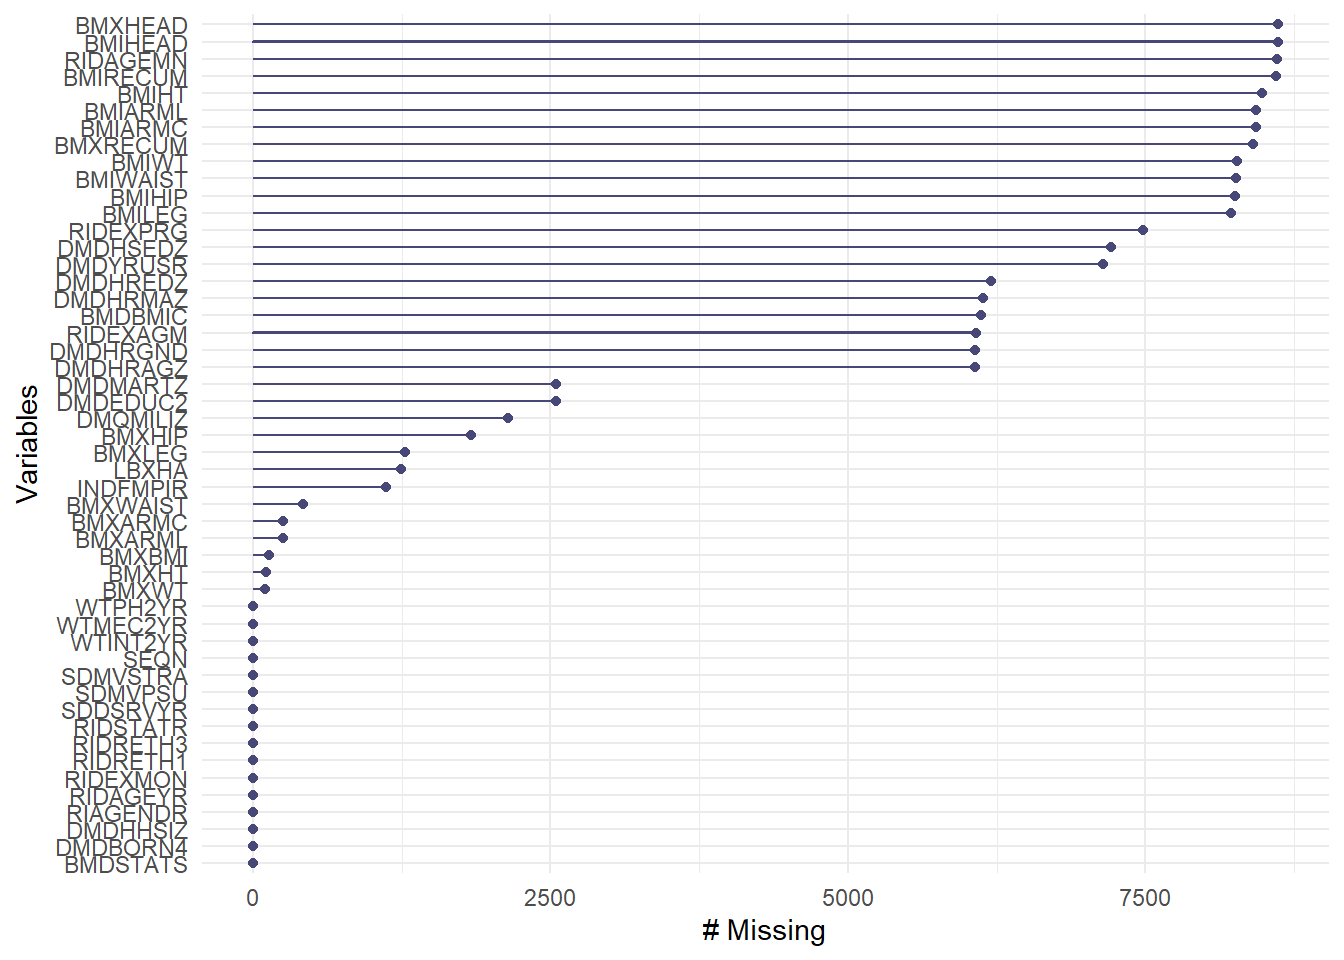
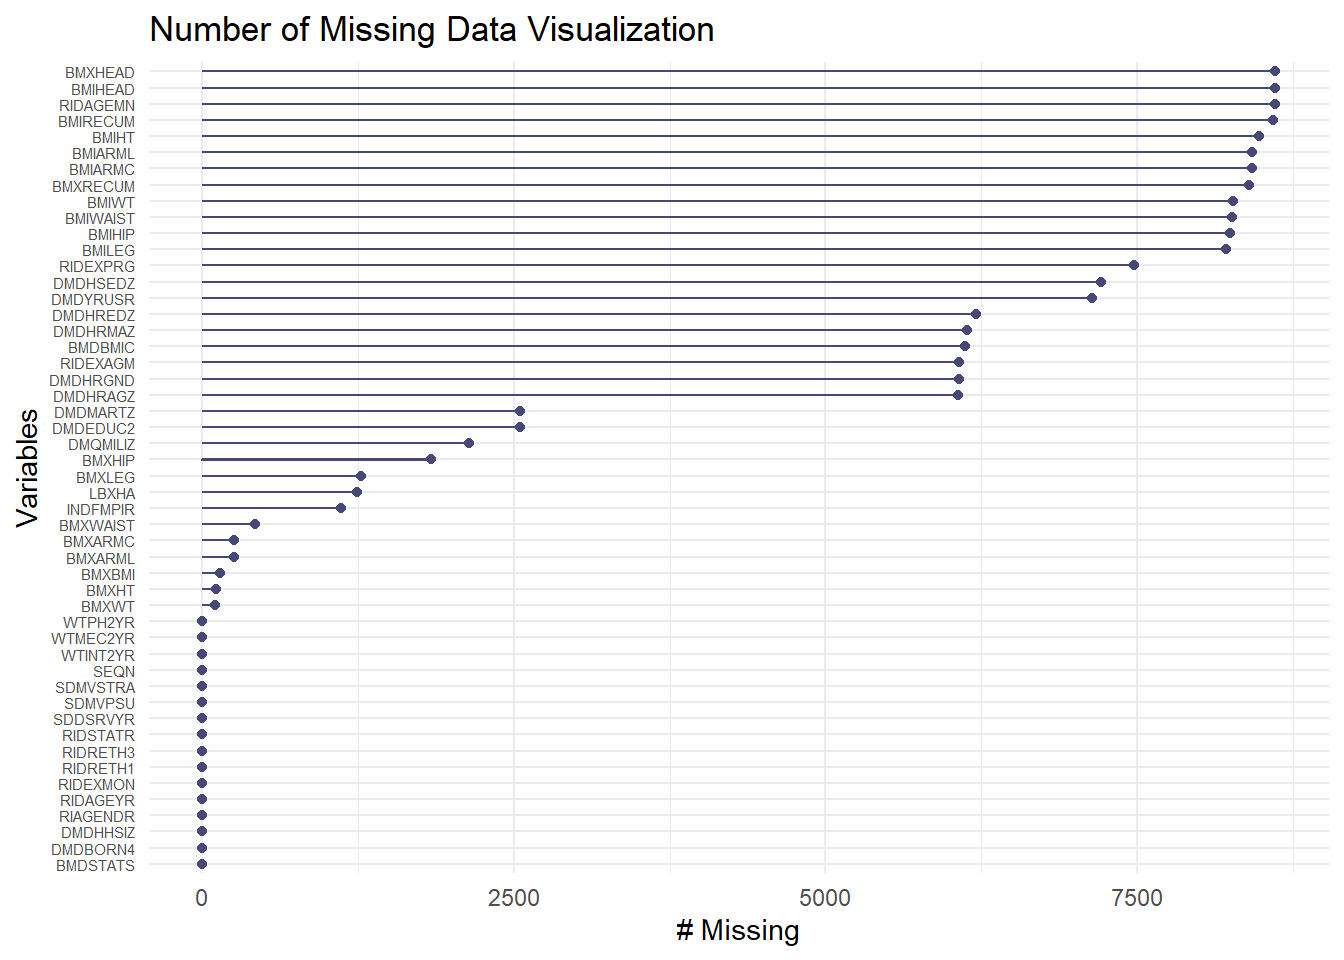
Edited missing value part of data file

diff --git a/docs/data.html b/docs/data.html
@@ -243,6 +243,7 @@ pre > code.sourceCode > span > a:first-child::before { text-decoration: underlin
 </section>
 <section id="missing-value-analysis" class="level2" data-number="2.2">
 <h2 data-number="2.2" class="anchored" data-anchor-id="missing-value-analysis"><span class="header-section-number">2.2</span> Missing value analysis</h2>
+<p>We first import the xpt data files</p>
 <div class="cell">
 <details class="code-fold">
 <summary>Code</summary>
@@ -267,32 +268,16 @@ pre > code.sourceCode > span > a:first-child::before { text-decoration: underlin
 <span id="cb3-2"><a href="#cb3-2" aria-hidden="true" tabindex="-1"></a>demo_data <span class="ot">&lt;-</span> <span class="fu">read_xpt</span>(<span class="st">"data/DEMO_L.XPT"</span>)</span>
 <span id="cb3-3"><a href="#cb3-3" aria-hidden="true" tabindex="-1"></a>bmx_data <span class="ot">&lt;-</span> <span class="fu">read_xpt</span>(<span class="st">"data/BMX_L.XPT"</span>)</span>
 <span id="cb3-4"><a href="#cb3-4" aria-hidden="true" tabindex="-1"></a>hep_data <span class="ot">&lt;-</span> <span class="fu">read_xpt</span>(<span class="st">"data/HEPA_L.XPT"</span>)</span>
-<span id="cb3-5"><a href="#cb3-5" aria-hidden="true" tabindex="-1"></a>combined_data <span class="ot">&lt;-</span> hep_data <span class="sc">|&gt;</span> <span class="fu">left_join</span>(bmx_data, <span class="at">by =</span> <span class="st">"SEQN"</span>) <span class="sc">|&gt;</span> <span class="fu">left_join</span>(demo_data, <span class="at">by =</span> <span class="st">"SEQN"</span>)</span>
-<span id="cb3-6"><a href="#cb3-6" aria-hidden="true" tabindex="-1"></a><span class="fu">head</span>(combined_data)</span></code><button title="Copy to Clipboard" class="code-copy-button"><i class="bi"></i></button></pre></div>
+<span id="cb3-5"><a href="#cb3-5" aria-hidden="true" tabindex="-1"></a>combined_data <span class="ot">&lt;-</span> hep_data <span class="sc">|&gt;</span> <span class="fu">left_join</span>(bmx_data, <span class="at">by =</span> <span class="st">"SEQN"</span>) <span class="sc">|&gt;</span> <span class="fu">left_join</span>(demo_data, <span class="at">by =</span> <span class="st">"SEQN"</span>)</span></code><button title="Copy to Clipboard" class="code-copy-button"><i class="bi"></i></button></pre></div>
 </details>
-<div class="cell-output cell-output-stdout">
-<pre><code># A tibble: 6 × 50
-    SEQN WTPH2YR LBXHA BMDSTATS BMXWT BMIWT BMXRECUM BMIRECUM BMXHEAD BMIHEAD
-   &lt;dbl&gt;   &lt;dbl&gt; &lt;dbl&gt;    &lt;dbl&gt; &lt;dbl&gt; &lt;dbl&gt;    &lt;dbl&gt;    &lt;dbl&gt;   &lt;dbl&gt;   &lt;dbl&gt;
-1 130378  56042.     1        1  86.9    NA       NA       NA      NA      NA
-2 130379  37436.     2        1 102.     NA       NA       NA      NA      NA
-3 130380  85329.     1        1  69.4    NA       NA       NA      NA      NA
-4 130381      0     NA        1  34.3    NA       NA       NA      NA      NA
-5 130382  59639.     1        3  13.6    NA       NA        1      NA      NA
-6 130386  44526.     2        1  90.6    NA       NA       NA      NA      NA
-# ℹ 40 more variables: BMXHT &lt;dbl&gt;, BMIHT &lt;dbl&gt;, BMXBMI &lt;dbl&gt;, BMDBMIC &lt;dbl&gt;,
-#   BMXLEG &lt;dbl&gt;, BMILEG &lt;dbl&gt;, BMXARML &lt;dbl&gt;, BMIARML &lt;dbl&gt;, BMXARMC &lt;dbl&gt;,
-#   BMIARMC &lt;dbl&gt;, BMXWAIST &lt;dbl&gt;, BMIWAIST &lt;dbl&gt;, BMXHIP &lt;dbl&gt;, BMIHIP &lt;dbl&gt;,
-#   SDDSRVYR &lt;dbl&gt;, RIDSTATR &lt;dbl&gt;, RIAGENDR &lt;dbl&gt;, RIDAGEYR &lt;dbl&gt;,
-#   RIDAGEMN &lt;dbl&gt;, RIDRETH1 &lt;dbl&gt;, RIDRETH3 &lt;dbl&gt;, RIDEXMON &lt;dbl&gt;,
-#   RIDEXAGM &lt;dbl&gt;, DMQMILIZ &lt;dbl&gt;, DMDBORN4 &lt;dbl&gt;, DMDYRUSR &lt;dbl&gt;,
-#   DMDEDUC2 &lt;dbl&gt;, DMDMARTZ &lt;dbl&gt;, RIDEXPRG &lt;dbl&gt;, DMDHHSIZ &lt;dbl&gt;, …</code></pre>
 </div>
-</div>
+<p>To visualize missing values, we can make 2 graphs showing number and percentage of missing values for each features respectively.</p>
 <div class="cell">
 <details class="code-fold">
 <summary>Code</summary>
-<div class="sourceCode cell-code" id="cb5"><pre class="sourceCode r code-with-copy"><code class="sourceCode r"><span id="cb5-1"><a href="#cb5-1" aria-hidden="true" tabindex="-1"></a><span class="fu">gg_miss_var</span>(combined_data)</span></code><button title="Copy to Clipboard" class="code-copy-button"><i class="bi"></i></button></pre></div>
+<div class="sourceCode cell-code" id="cb4"><pre class="sourceCode r code-with-copy"><code class="sourceCode r"><span id="cb4-1"><a href="#cb4-1" aria-hidden="true" tabindex="-1"></a><span class="fu">gg_miss_var</span>(combined_data) <span class="sc">+</span></span>
+<span id="cb4-2"><a href="#cb4-2" aria-hidden="true" tabindex="-1"></a>  <span class="fu">labs</span>(<span class="at">title =</span> <span class="st">"Number of Missing Data Visualization"</span>) <span class="sc">+</span></span>
+<span id="cb4-3"><a href="#cb4-3" aria-hidden="true" tabindex="-1"></a>  <span class="fu">theme</span>(<span class="at">axis.text.y =</span> <span class="fu">element_text</span>(<span class="at">size =</span> <span class="fl">5.5</span>))</span></code><button title="Copy to Clipboard" class="code-copy-button"><i class="bi"></i></button></pre></div>
 </details>
 <div class="cell-output-display">
 <div>
@@ -302,15 +287,17 @@ pre > code.sourceCode > span > a:first-child::before { text-decoration: underlin
 </div>
 </div>
 </div>
+<p>From this graph, we can see that the variables with most missing values (BMXHEAD, BMIHEAD) have more than 8000 missing values, which means that almost the entire feature could be missing. On the other hand, there are also features with extremely low number of missing values like WTPH2YR, WTMEC2YR, etc. Almost no missing values within those variables. However, we also need another graph to see the percentage of missing values in each of the variables.</p>
 <div class="cell">
 <details class="code-fold">
 <summary>Code</summary>
-<div class="sourceCode cell-code" id="cb6"><pre class="sourceCode r code-with-copy"><code class="sourceCode r"><span id="cb6-1"><a href="#cb6-1" aria-hidden="true" tabindex="-1"></a><span class="fu">library</span>(visdat)</span>
-<span id="cb6-2"><a href="#cb6-2" aria-hidden="true" tabindex="-1"></a></span>
-<span id="cb6-3"><a href="#cb6-3" aria-hidden="true" tabindex="-1"></a><span class="fu">vis_miss</span>(combined_data) <span class="sc">+</span></span>
-<span id="cb6-4"><a href="#cb6-4" aria-hidden="true" tabindex="-1"></a>  <span class="fu">labs</span>(<span class="at">title =</span> <span class="st">"Missing Data Visualization"</span>,</span>
-<span id="cb6-5"><a href="#cb6-5" aria-hidden="true" tabindex="-1"></a>       <span class="at">x =</span> <span class="st">"Variables"</span>,</span>
-<span id="cb6-6"><a href="#cb6-6" aria-hidden="true" tabindex="-1"></a>       <span class="at">y =</span> <span class="st">"Observations"</span>) <span class="sc">+</span> <span class="fu">theme</span>(<span class="at">axis.text.x =</span> <span class="fu">element_text</span>(<span class="at">angle =</span> <span class="dv">90</span>))</span></code><button title="Copy to Clipboard" class="code-copy-button"><i class="bi"></i></button></pre></div>
+<div class="sourceCode cell-code" id="cb5"><pre class="sourceCode r code-with-copy"><code class="sourceCode r"><span id="cb5-1"><a href="#cb5-1" aria-hidden="true" tabindex="-1"></a><span class="fu">library</span>(visdat)</span>
+<span id="cb5-2"><a href="#cb5-2" aria-hidden="true" tabindex="-1"></a></span>
+<span id="cb5-3"><a href="#cb5-3" aria-hidden="true" tabindex="-1"></a><span class="fu">vis_miss</span>(combined_data, <span class="at">sort_miss =</span> <span class="cn">TRUE</span>) <span class="sc">+</span></span>
+<span id="cb5-4"><a href="#cb5-4" aria-hidden="true" tabindex="-1"></a>  <span class="fu">labs</span>(<span class="at">title =</span> <span class="st">"Percentage Missing Data Visualization"</span>,</span>
+<span id="cb5-5"><a href="#cb5-5" aria-hidden="true" tabindex="-1"></a>       <span class="at">x =</span> <span class="st">"Variables"</span>,</span>
+<span id="cb5-6"><a href="#cb5-6" aria-hidden="true" tabindex="-1"></a>       <span class="at">y =</span> <span class="st">"Observations"</span>) <span class="sc">+</span> </span>
+<span id="cb5-7"><a href="#cb5-7" aria-hidden="true" tabindex="-1"></a>  <span class="fu">theme</span>(<span class="at">axis.text.x =</span> <span class="fu">element_text</span>(<span class="at">angle =</span> <span class="dv">90</span>, <span class="at">size =</span> <span class="fl">7.5</span>))</span></code><button title="Copy to Clipboard" class="code-copy-button"><i class="bi"></i></button></pre></div>
 </details>
 <div class="cell-output-display">
 <div>
@@ -320,6 +307,7 @@ pre > code.sourceCode > span > a:first-child::before { text-decoration: underlin
 </div>
 </div>
 </div>
+<p>The <strong>vis_miss</strong> graph can show us the percentage of missing values both in each feature and in the entire dataset, as well as which observation is missing. From the graph, we can see that there are 4 features that are entirely missing, and 16 features with no missing values. On the scope of the entire dataset, there are 40.% of missing values in total.</p>
 
 
 </section>
